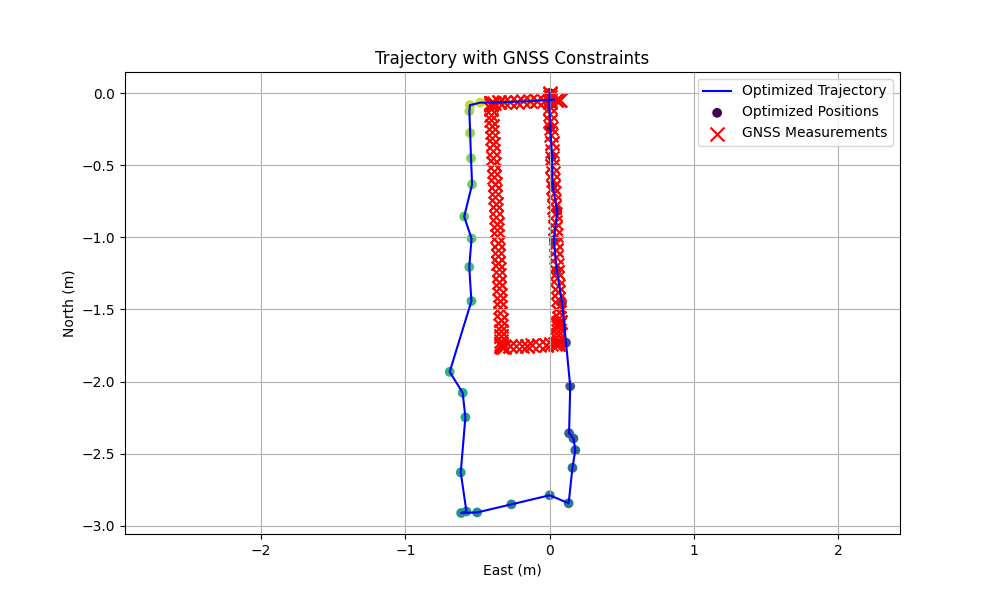
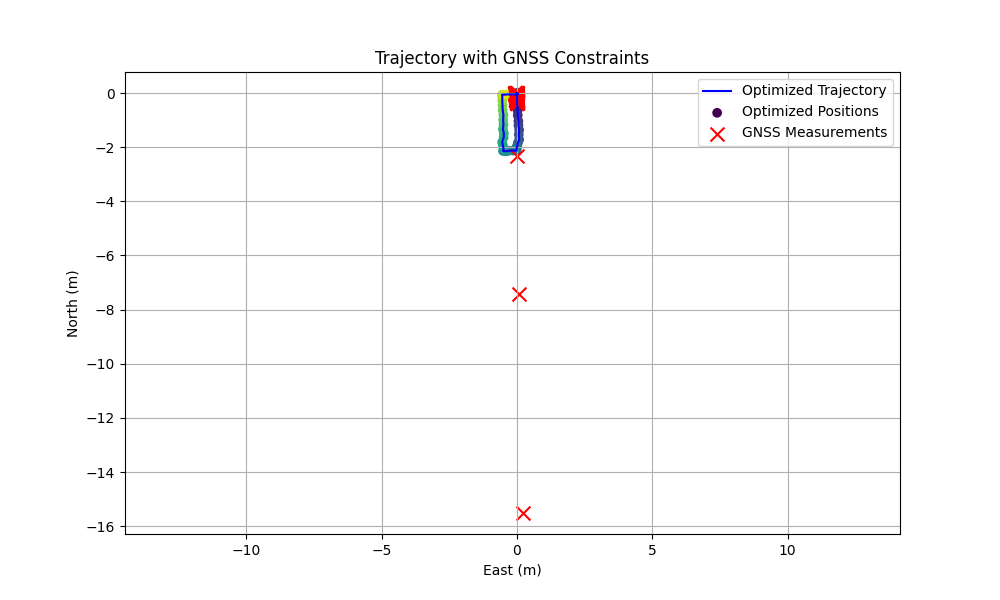
Calculated per submap

diff --git a/vggt_slam/solver.py b/vggt_slam/solver.py
@@ -174,9 +174,9 @@ class Solver:
         print("Starting viser server...")
     def align_scale(self):
         """计算尺度因子但不直接缩放位姿 - 通过GNSS约束引导优化"""
-        if len(self.visual_positions) < 2:
-            print("Warning: Not enough points for scale alignment")
-            return False
+        # if len(self.visual_positions) < 2:
+        #     print("Warning: Not enough points for scale alignment")
+        #     return False
         
         # 计算从起点到各点的距离比例
         scale_factors = []
@@ -547,7 +547,7 @@ class Solver:
                 self.gnss_positions.append(current_gnss)
                 
                 # 检查是否可以进行尺度对齐
-                if not self.scale_aligned:
+                if True:
                     # 计算当前段的尺度因子
                     visual_dist = np.linalg.norm(visual_delta)
                     gnss_dist = np.linalg.norm(gnss_delta)
@@ -555,11 +555,11 @@ class Solver:
                     if visual_dist > 0.01:
                         scale_estimate = gnss_dist / visual_dist
                         print(f"Scale estimate from frame {len(self.visual_positions)-1} to {len(self.visual_positions)}: {scale_estimate:.4f}")
-                        
+                        self.align_scale()
                         # 如果有足够的估计点，计算全局尺度
-                        if len(self.visual_positions) >= 3:
-                            self.align_scale()
-                            self.scale_aligned = True
+                        # if len(self.visual_positions) >= 3:
+                        #     self.align_scale()
+                        #     self.scale_aligned = True
             
             # 更新最后位置
             self.last_visual_pos = current_visual_pos
@@ -611,7 +611,7 @@ class Solver:
         self.map.add_submap(self.current_working_submap)
         # 如果已经对齐尺度，应用到GNSS约束
         if gnss_measurements is not None and len(gnss_measurements) > 0:
-                if self.scale_aligned:
+                if True:
                     # 创建缩放后的GNSS测量 - 但不是缩放位姿，而是调整GNSS噪声
                     print(f"Applying scale factor {self.scale_factor:.4f} to GNSS constraints")
                     self.graph.test_add_gnss(gnss_measurements, scale_factor=self.scale_factor)

diff --git a/vggt_slam/graph.py b/vggt_slam/graph.py
@@ -110,7 +110,7 @@ class PoseGraph:
         plt.grid(True)
         plt.savefig('gnss_visualization.png')
         plt.show()
-    def test_add_gnss(self, gnss_measurements, scale_factor=1.0):
+    def test_add_gnss(self, gnss_measurements, scale_factor=250.0):
         """
         Add GNSS measurements as prior factors to the pose graph with scale handling.
         
@@ -121,7 +121,7 @@ class PoseGraph:
         for frame_idx, (lat, lon, alt) in enumerate(gnss_measurements):
             # 转换为ENU坐标
             enu = self.gnss_processor.lla_to_enu(lat, lon, alt)
-            scale_factor = 246.0
+            # scale_factor = 246.0
             enu_scaled = enu / scale_factor
             print(f"Frame {frame_idx} GNSS ENU (scaled): {enu_scaled} (scale={scale_factor:.4f})")
             self.gnss_processor.add_enu2history(enu_scaled)
@@ -131,8 +131,8 @@ class PoseGraph:
             
             noise_vector = np.ones(15) * 1e6  # 高噪声表示不约束
             # 根据GNSS设备精度调整这些值
-            horizontal_noise = 0.1  # 水平方向噪声（米）
-            vertical_noise = 0.1    # 垂直方向噪声（米）
+            horizontal_noise = 0.5  # 水平方向噪声（米）
+            vertical_noise = 0.5    # 垂直方向噪声（米）
             
             # 重要：根据尺度因子调整噪声
             # 如果尺度因子很大，GNSS噪声在视觉尺度下会变小
